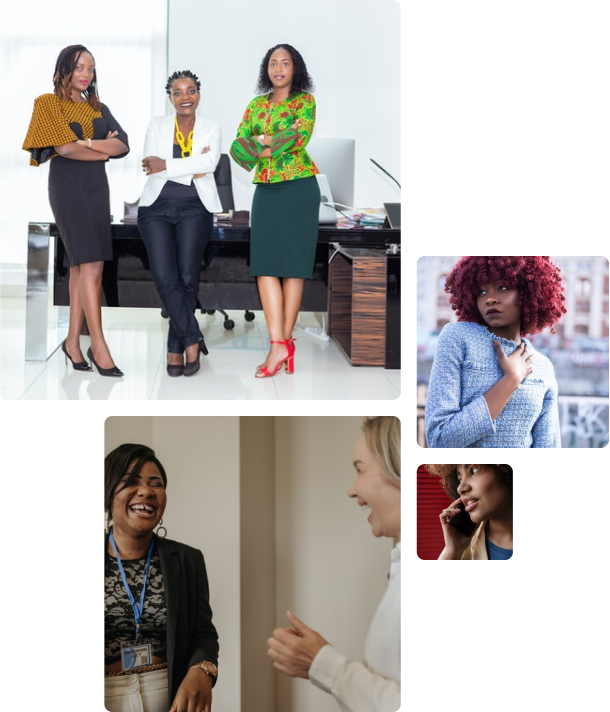
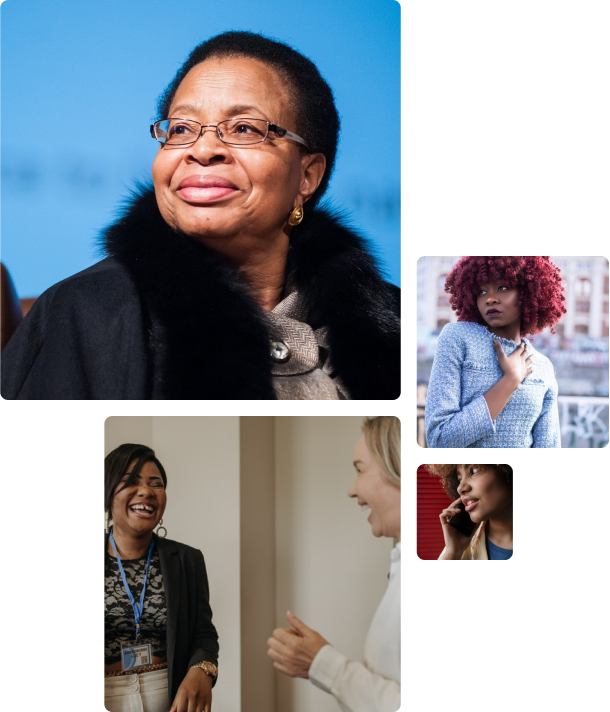
home page changes

diff --git a/pages/index.vue b/pages/index.vue
@@ -2,15 +2,15 @@
   <v-card width="100%" elevation="0">
     <v-card
       elevation="0"
-      width="70%"
+      width="80%"
       class="mx-auto my-4"
     >
-      <div style="background-image:url('/images/hero.png');background-size:contain;">
-        <v-card-text class="text-center">
+      <div>
+        <v-card-text class="text-center font-weight-bold grey--text text-h6">
           Brought to you by Graca Machel Trust
         </v-card-text>
-        <v-card-text class="text-center mx-auto text-h4 font-weight-medium" style="width:55%; color:#FF374F;">
-          A Capacity Building Entrepreneurship Accelerator Programme for Women in Africa
+        <v-card-text class="text-center mx-auto text-h3 font-weight-bold" style="width:100%; color:#FF374F;">
+          A Pan-African Movement that Grooms and Empowers Female Entrepreneurs to Become Wealth-Generating Business Women
         </v-card-text>
         <v-card-text class="text-center mx-auto" style="width:45%;">
           Connectiong 10,000+ women to transform their business and drive intra-Africa trade
@@ -24,7 +24,7 @@
           </v-col>
           <v-col class="text-center">
             <v-btn elevation="0" color="#FFCC18" outlined class="font-weight-bold">
-              More About Us
+              About Us
             </v-btn>
           </v-col>
         </v-row>
@@ -34,88 +34,48 @@
       />
     </v-card>
     <!-- start about us section -->
-    <v-row
-      class="my-2 py-16"
-      style="
-      background-color:#FF374F;
-      background-image:url('/images/mask.png');
-      background-size:contain;background-repeat:no-repeat;"
-    >
-      <v-col class="py-10">
-        <v-img
-          class="mx-auto"
-          width="60%"
-          src="/images/about.png"
-        />
-      </v-col>
-      <v-col class="d-flex align-center">
-        <div style="width:60%">
-          <p class="font-weight-bold text-h4 white--text">
-            About Us
-          </p>
-          <p class="white--text body-2">
-            For the past 6 years the Women Creating Wealth (WCW) program has helped 430 African women entrepreneurs(AWEs)
-            strengthen their entrepreneurial skills and transform their business from income generating micro-ventures into
-            impactful wealth creating Enterprises.
-          </p>
-          <div class="d-flex align-center" style="color:#FFCC18">
-            More About Us
-            <v-icon style="color:#FFCC18">
-              mdi-arrow-right
-            </v-icon>
+    <div style="background-color:#E41A4A;">
+      <v-row
+        class="my-2 pa-4 mx-auto"
+        style="width:80%"
+      >
+        <v-col class="d-flex justify-center pa-4">
+          <div class="pa-4" style="width:80%">
+            <v-img
+              src="/images/about.png"
+            />
           </div>
-        </div>
-      </v-col>
-    </v-row>
+        </v-col>
+        <v-col class="d-flex align-center">
+          <div style="width:100%">
+            <p class="font-weight-bold text-h4 white--text">
+              About Us
+            </p>
+            <p class="white--text body-2">
+              For the past 6 years the Women Creating Wealth (WCW) program has helped 430 African women entrepreneurs(AWEs)
+              strengthen their entrepreneurial skills and transform their business from income generating micro-ventures into
+              impactful wealth creating Enterprises.
+            </p>
+            <div class="d-flex align-center" style="color:#FFCC18">
+              More About Us
+              <v-icon style="color:#FFCC18">
+                mdi-arrow-right
+              </v-icon>
+            </div>
+          </div>
+        </v-col>
+      </v-row>
+    </div>
     <!-- end of the about us section -->
     <!-- Our patners section -->
-    <div class="d-flex flex-column justify-center" style="height:300px">
-      <v-card-text class="mx-auto text-h4 font-weight-bold my-4" style="width:40%; color:#FF374F;">
+    <div class="mx-auto my-14" style="width:80%">
+      <v-card-text class="mx-auto text-h4 font-weight-bold my-4 text-center" style="color:#FF374F;">
         Our Patners and Sponsors
       </v-card-text>
       <partners-sponsors />
     </div>
-    <!-- start of the step section -->
-    <v-card
-      elevation="0"
-      class="mx-auto"
-      width="80%"
-    >
-      <v-card-text class="text-center mx-auto text-h4 font-weight-bold" style="width:70%; color:#FF374F;">
-        How do we support women on their journey to wealth creation?
-      </v-card-text>
-      <div
-        class="d-flex justify-space-between mx-auto my-4"
-        style="width:70%"
-      >
-        <step-card />
-        <step-card
-          :value="2"
-          title="Step 2"
-          body="We encourage and prepare women entrepreneurs to
-          improve their business formalization and
-          compliance in order to minimise risks and boost market access."
-        />
-      </div>
-      <div
-        class="d-flex justify-space-between mx-auto my-4"
-        style="width:70%"
-      >
-        <step-card
-          :value="3"
-          title="Step 3"
-          body="With lots of unique blocks, you can easily build a page without coding."
-        />
-        <step-card
-          :value="4"
-          title="Step 4"
-          body="With lots of unique blocks, you can easily build a page without coding"
-        />
-      </div>
-    </v-card>
-    <!-- end of step section -->
     <!-- start what you will get -->
-    <v-card-text class="text-center mx-auto text-h4 font-weight-bold mt-10" style="width:50%; color:#FF374F;">
+    <v-card-text class="text-center mx-auto text-h4 font-weight-bold mt-14" style="width:50%; color:#FF374F;">
       What you Will Get
     </v-card-text>
     <container />
@@ -178,11 +138,10 @@
 <script>
 import PartnersSponsors from '~/components/PatnersSponsors.vue'
 import CardView from '~/components/CardView.vue'
-import StepCard from '~/components/StepCard.vue'
 import Testimonials from '~/components/Testimonials.vue'
 export default {
   name: 'AppPage',
-  components: { StepCard, CardView, PartnersSponsors, Testimonials },
+  components: { CardView, PartnersSponsors, Testimonials },
   methods: {
     registerNow () {
       this.$router.push('/signup')

diff --git a/components/Container.vue b/components/Container.vue
@@ -2,46 +2,50 @@
   <div class="d-flex">
     <!-- first container -->
     <div class="d-flex" style="width:50%;">
-      <v-img src="/images/cont.png" width="350px" style="object-fit: cover;" />
-      <div class="d-flex flex-column justify-center pa-6" style="width:60%;background-color:#FF374F;">
+      <div style="width:50%">
+        <v-img src="/images/cont.png" />
+      </div>
+      <div class="d-flex flex-column justify-center pa-4" style="background-color:black;">
         <div class="my-4">
           <p class="text-h5 white--text font-weight-bold">
-            Skills to Attract Investors
+            Enhanced Capacity to Grow
           </p>
-          <p class="body-2 white--text">
-            We help to scale and make their businesses attractive to financial institutions and investors.
+          <p class="body-2 white--text font-weight-light">
+            We strengthen women entrepreneurs' knowledge, confidence and desire to scale their business.
           </p>
         </div>
         <div class="my-4">
           <p class="text-h5 white--text font-weight-bold">
-            Skills to Attract Investors
+            Resources to Improve Business Formalisation
           </p>
-          <p class="body-2 white--text">
-            We help to scale and make their businesses attractive to financial institutions and investors.
+          <p class="body-2 white--text font-weight-light">
+            We provide tools and templates that help formalise a business and
+            develop systems and processes for operational efficiency and excellence.
           </p>
         </div>
       </div>
     </div>
     <!-- second container -->
     <div class="d-flex" style="width:50%;">
-      <v-img src="/images/cont-2.png" width="350px" style="object-fit: cover;" />
-      <div class="d-flex flex-column justify-center pa-6" style="width:60%;background-color:#FF374F;">
+      <div style="width:50%">
+        <v-img src="/images/cont-2.png" />
+      </div>
+      <div class="d-flex flex-column justify-center pa-4" style="background-color:black;">
         <div class="my-4">
           <p class="text-h5 white--text font-weight-bold">
-            Confidence to Handle Difficulties
+            Market Investment Readiness
           </p>
-          <p class="body-2 white--text">
-            We prepare entrepreneurs to handle pre-investment difficulties,
-            with the goal of creating a substancial pipeline of women owned business that are investor ready.
+          <p class="body-2 white--text font-weight-light">
+            We de-risk entrepreneurs in readiness for investment by focusing on compliance, market savviness and pitch practice.
           </p>
         </div>
         <div class="my-4">
           <p class="text-h5 white--text font-weight-bold">
-            Unlimited Resources
+            Value-Generating Business Community
           </p>
-          <p class="body-2 white--text">
-            We develop a regional business community in which alumni can continue to benefit from resources such as business growth,
-            networking and information exchange, mentorship and coaching, as well as market and financial support.
+          <p class="body-2 white--text font-weight-light">
+            We support women entrepreneurs in regional business communities to achieve their growth plans,
+            network, increase their skill and work collaboratively to access markets and finance.
           </p>
         </div>
       </div>

diff --git a/components/PatnersSponsors.vue b/components/PatnersSponsors.vue
@@ -1,9 +1,17 @@
 <template>
-  <div class="d-flex flex-row align-center mx-auto mb-14" style="width:40%">
-    <v-img class="mx-4" src="/images/mastercard.svg" width="25%" />
-    <v-img class="mx-4" src="/images/ecobank.svg" width="25%" />
-    <v-img class="mx-4" src="/images/unite.svg" width="25%" />
-    <v-img class="mx-4" src="/images/graca.svg" width="25%" />
+  <div class="d-flex flex-row align-center mx-auto mb-14">
+    <div>
+      <v-img class="mx-4" src="/images/mastercard.svg" width="60%" />
+    </div>
+    <div>
+      <v-img class="mx-4" src="/images/ecobank.svg" width="60%" />
+    </div>
+    <div>
+      <v-img class="mx-4" src="/images/unite.svg" width="60%" />
+    </div>
+    <div>
+      <v-img class="mx-4" src="/images/graca.svg" width="60%" />
+    </div>
   </div>
 </template>
 
